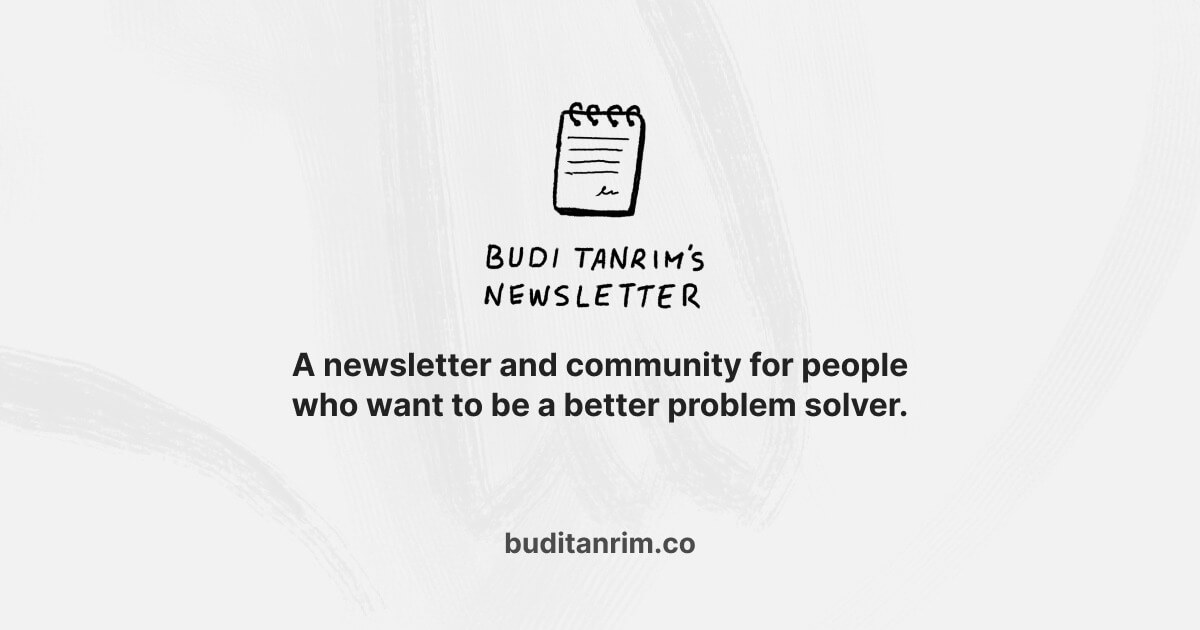
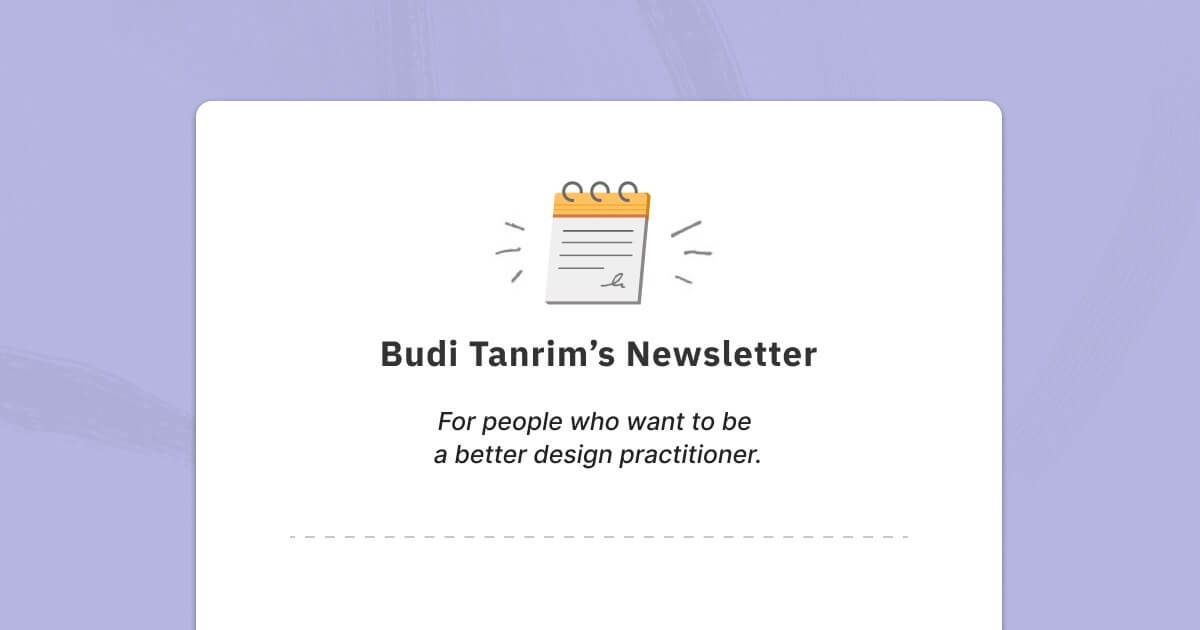
newsletter update

diff --git a/_layouts/newsletter.html b/_layouts/newsletter.html
@@ -6,11 +6,11 @@
 
     	<div class="col-sm-12 col-md-6 offset-md-3 markdown">
     		<div class="img-wrapper illustration l--center tiny m-t-s m-b-s">
-			    <img src="/img/asset/newsletter-logo-left.jpg" alt="Budi Tanrim's newsletter"/>
+			    <img src="/img/asset/newsletter-logo-2022.jpg" alt="Budi Tanrim's newsletter"/ class="mx-w-60">
 			</div>
 		</div>
 		<div class="col-sm-12 col-md-4 offset-md-4 markdown">
-			<h4 class="l--center">A newsletter and community for people who want to be a better problem solver.</h4>
+			<h4 class="l--center">{{page.description}}</h4>
 
 			<div class="m-t-m m-b-xl l--center">
 			    <a href="http://eepurl.com/cuGqAP" class="btn-dark btn-medium center">Subscribe</a>

diff --git a/_sass/global/_image.scss b/_sass/global/_image.scss
@@ -45,3 +45,13 @@ img {
 		width: 90vw;
 	}
 }
+
+.mx-w-10 { max-width: 10%;}
+.mx-w-20 { max-width: 20%;}
+.mx-w-30 { max-width: 30%;}
+.mx-w-40 { max-width: 40%;}
+.mx-w-50 { max-width: 50%;}
+.mx-w-60 { max-width: 60%;}
+.mx-w-70 { max-width: 70%;}
+.mx-w-80 { max-width: 80%;}
+.mx-w-90 { max-width: 90%;}

diff --git a/newsletter.md b/newsletter.md
@@ -1,7 +1,7 @@
 ---
 layout: newsletter
 title: Budi Tanrim's Newsletter
-description: A newsletter and community for people who want to be a better problem solver.
+description: A newsletter and community for people who want to be a better design practitioner.
 id: newsletter
 
 image:
@@ -19,7 +19,16 @@ twitter-seo:
 - **My book draft** (_A few times per year_)
 - **Writing from my blog** (_Optional, you can choose daily or weekly_)
 
+---
 
+**Latest issue ✉**
+
+<style type="text/css">
+<!--
+.campaign {line-height: 150%; margin-bottom: 16px;}
+//-->
+</style>
+<script language="javascript" src="//buditanrim.us4.list-manage.com/generate-js/?u=f82dd94137a54f15acad8bdfe&fid=30351&show=10" type="text/javascript"></script>
 ---
 
 **What readers are saying:**
